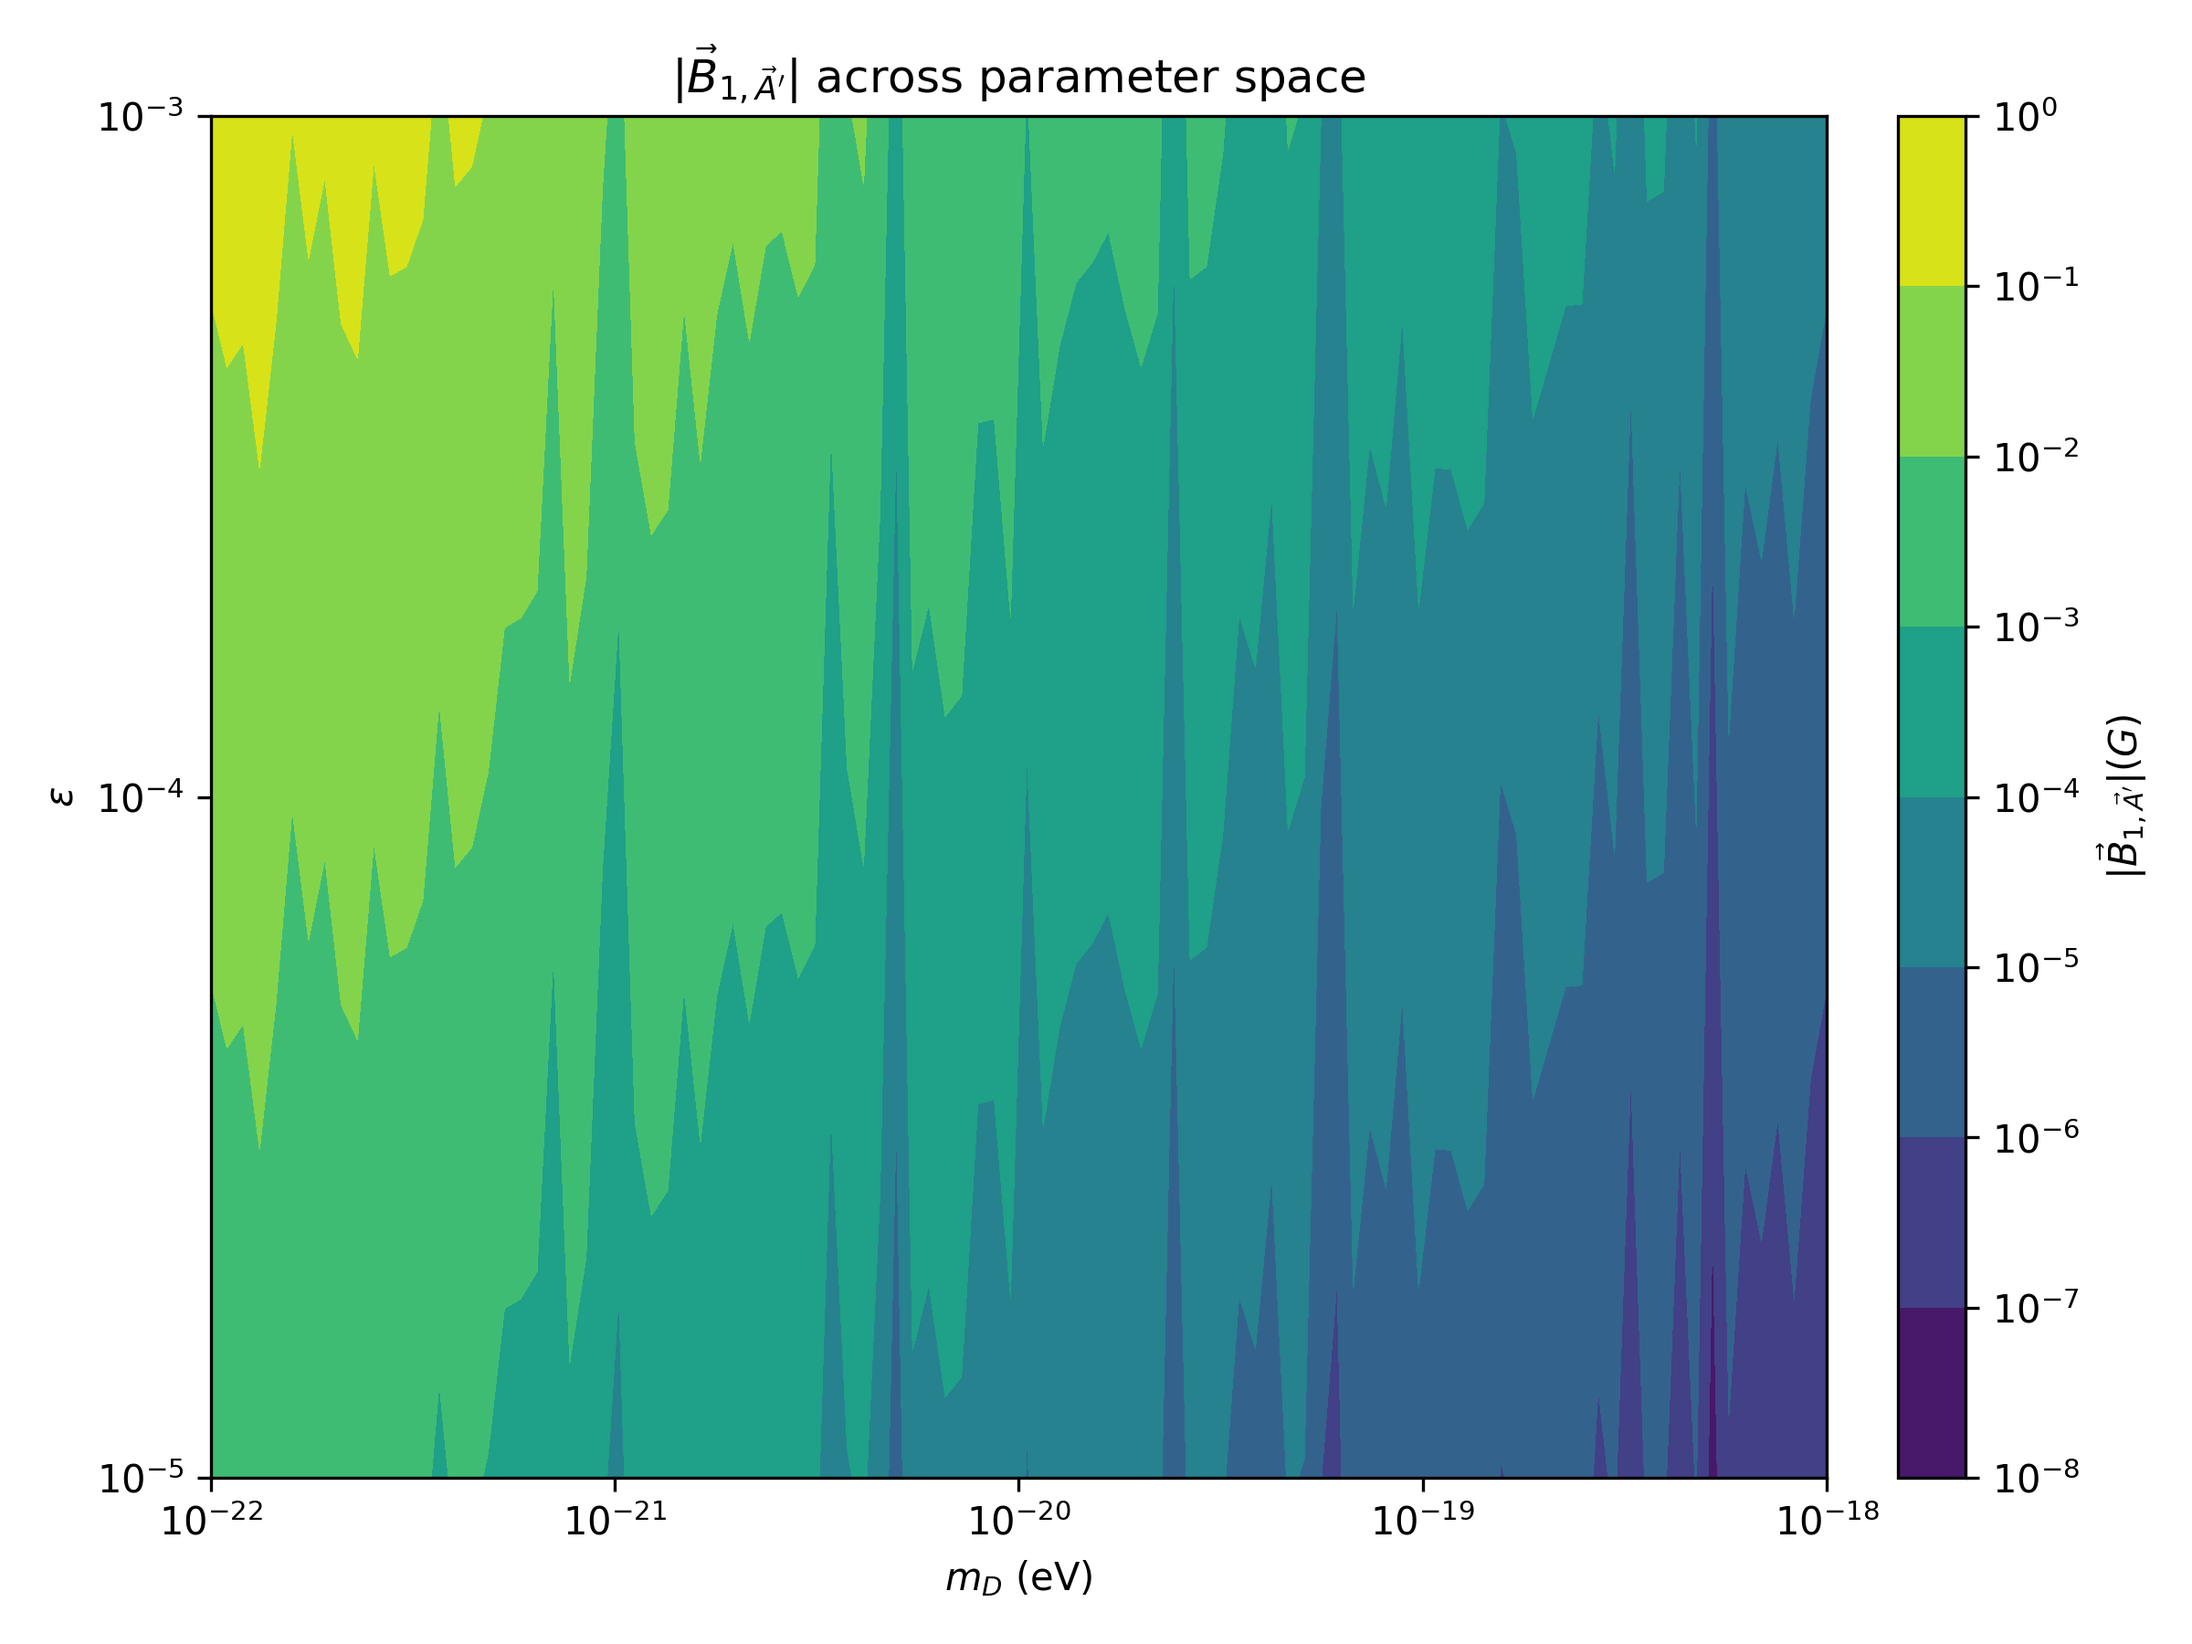
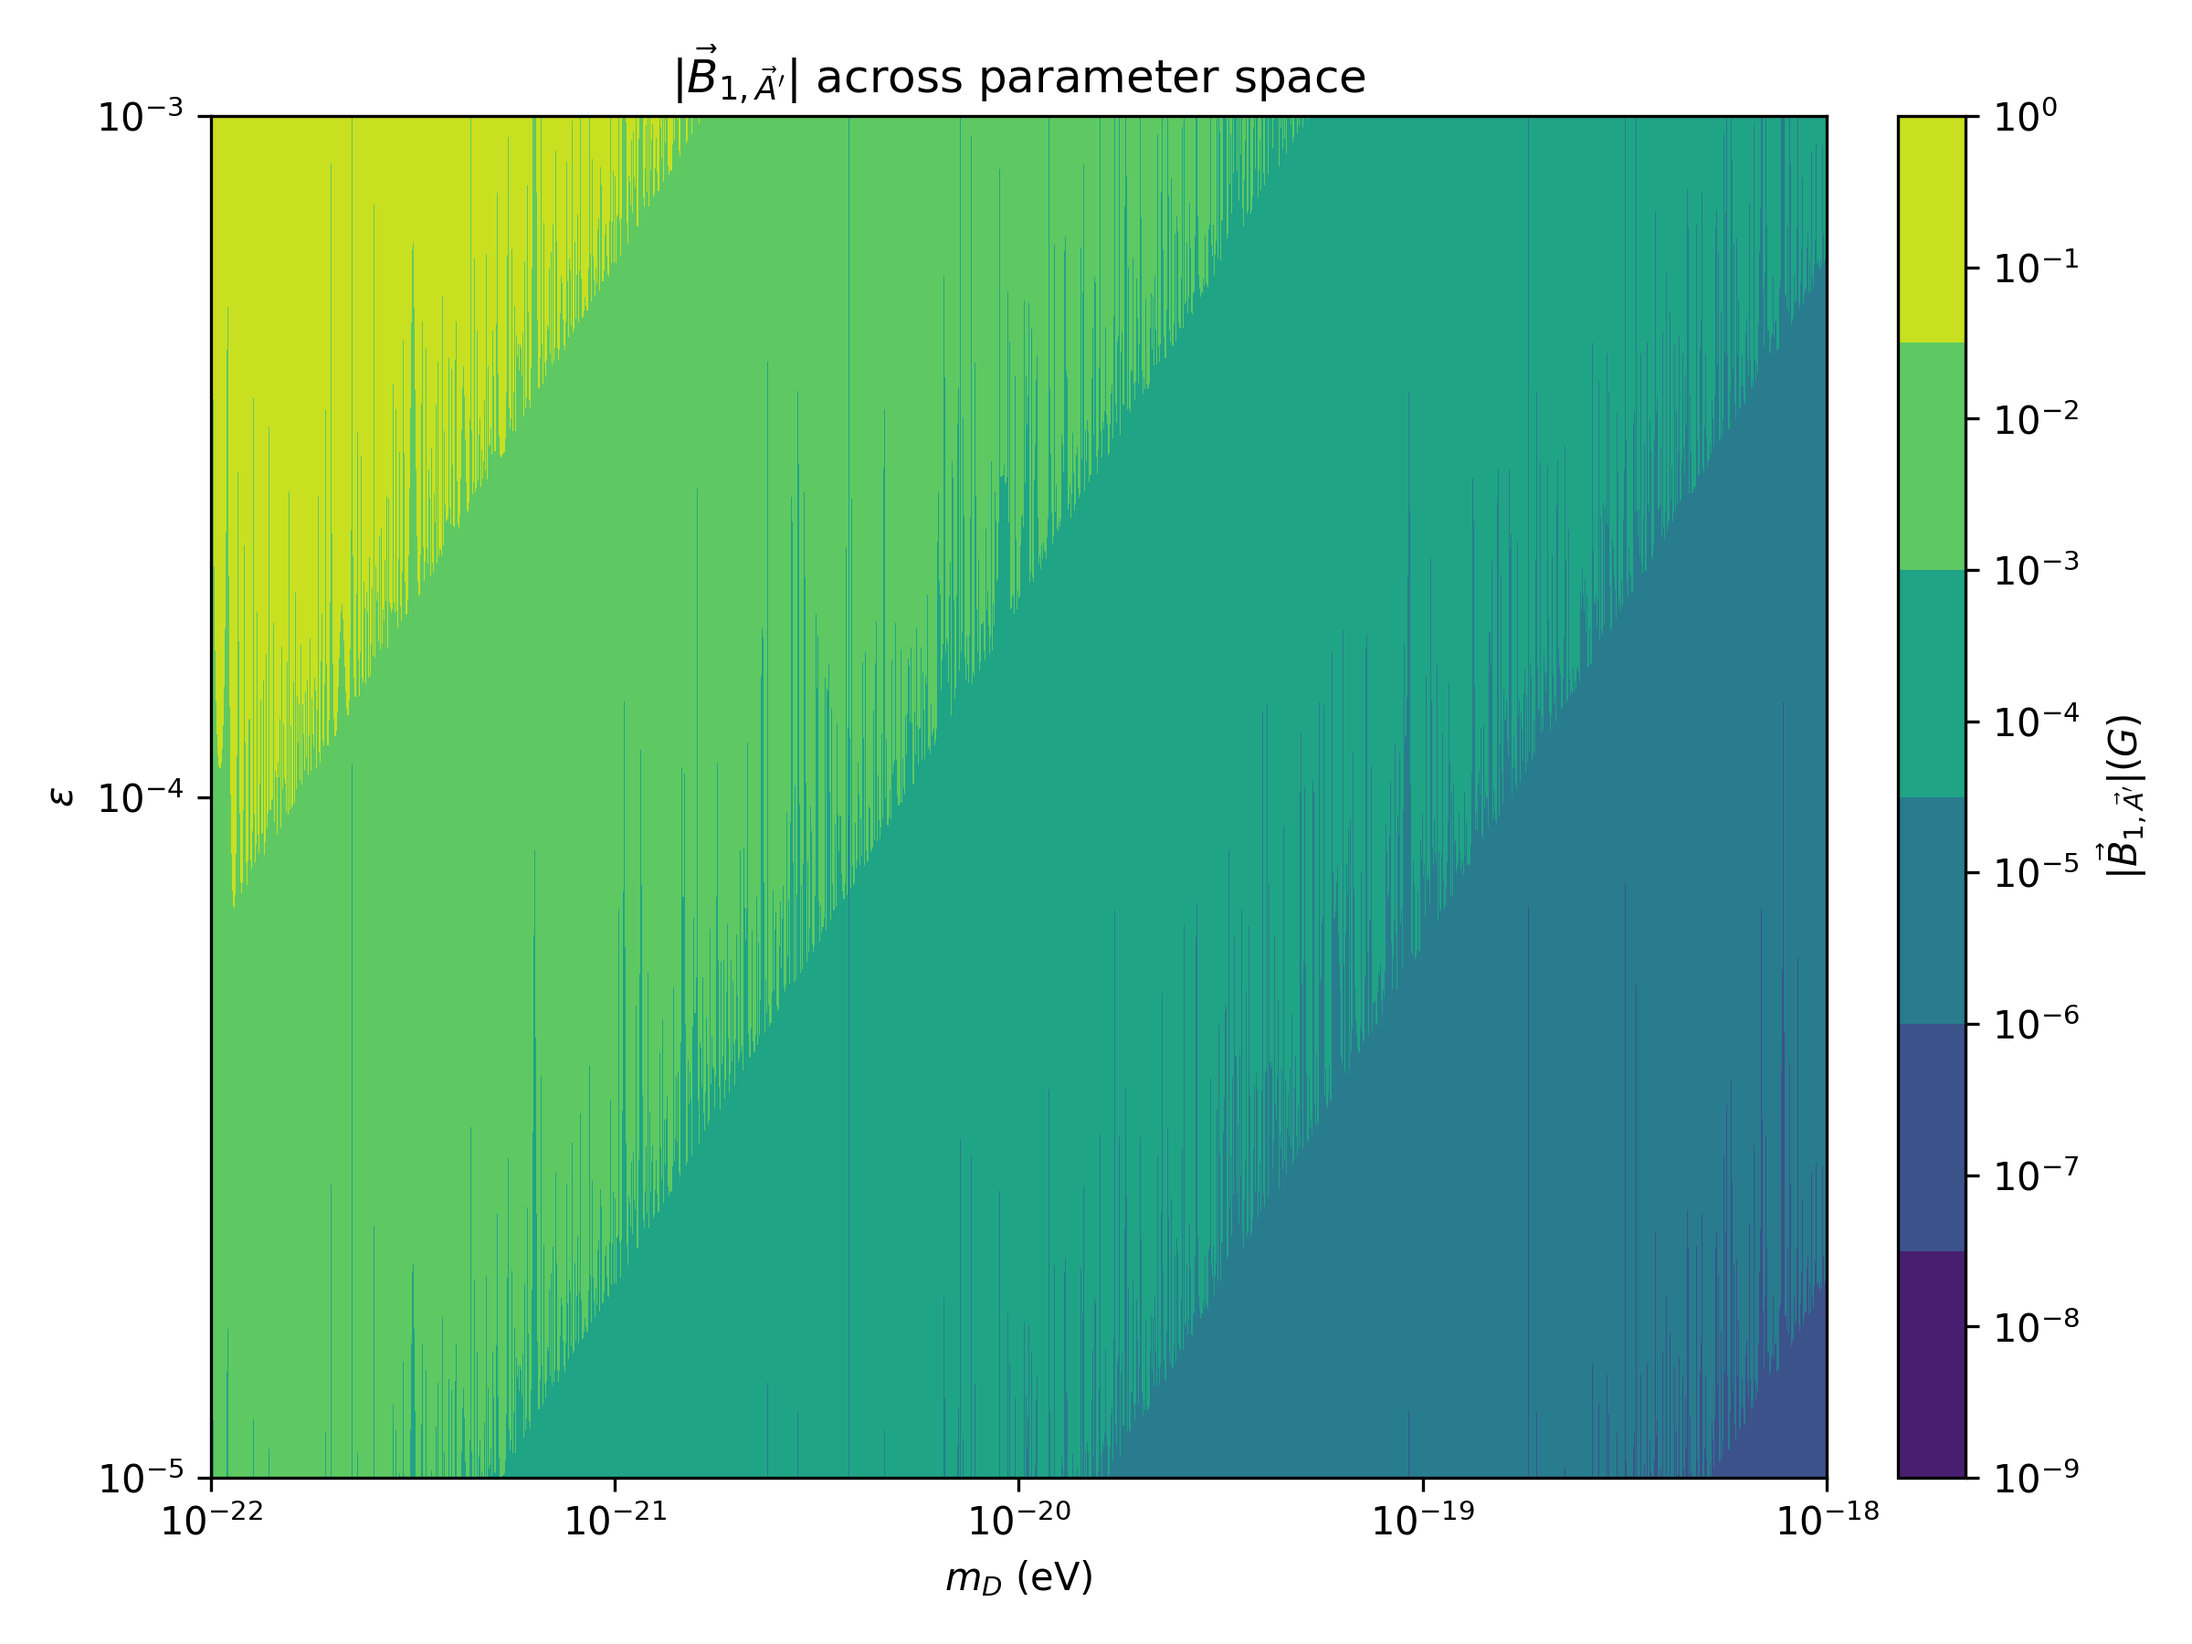
In progress

diff --git a/zeeman.py b/zeeman.py
@@ -60,6 +60,9 @@ r_c = r_c_pc * pc_to_m * m_to_eVminus1
 # Scaling constants of Tom's profile (arXiv: 1406.6586v1)
 a = (0.091 / r_c_pc**2) * (pc_to_m * m_to_eVminus1)**(-2) # Scaling constant of axion (eV^2)
 
+# Chemical potential of dark photon
+mu = 0
+
 # Convert the string to lowercase and remove all spaces
 def lower_rspace(string):
     """
@@ -217,7 +220,6 @@ def calculate_B1(potential_type, particle_type, t, m, f, epsilon, r_p, B_bar, re
             coeff = omega * g_ac * phi0 # Coefficient for axion
 
         elif particle_type == "dark photon":
-            mu = 0 # Chemical potential
             omega = m - mu
             B_bar_x, B_bar_y, B_bar_z = 1 / np.sqrt(2), j / np.sqrt(2), 0 # Pseudo-magnetic field representing the circular polarization vector
             coeff = epsilon * m**2 * A0 # Coefficient for dark photon
@@ -294,6 +296,7 @@ def calculate_E_Z(g_j, B, m_j):
     """
 
     E_Z = mu_B * g_j * B * m_j
+
     return E_Z
 
 # Calculate the hyperfine energy
@@ -675,21 +678,23 @@ def main():
     if particle_type == "axion":
         m, omega = m_a, m_a
     elif particle_type == "dark photon":
-        m, omega = m_D, m_D
+        m, omega = m_D, m_D - mu
 
-    # Parameter space
-    m_as = np.logspace(-22, -18, 100)
-    m_Ds = np.logspace(-22, -18, 100)
-    fs = np.logspace(23, 27, 100)
-    epsilons = np.logspace(-5, -3, 100)
-    m_as, fs = np.meshgrid(m_as, fs)
-    m_Ds, epsilons = np.meshgrid(m_Ds, epsilons)
-    B1params_a = calculate_B1("flat", "axion", 0, m_as, fs, epsilon, 8000 * pc_to_m * m_to_eVminus1, B_bar, real=False)
-    B1params_d = calculate_B1("flat", "dark photon", 0, m_Ds, f, epsilons, 8000 * pc_to_m * m_to_eVminus1, B_bar, real=False)
+    params = False
+    if params:
+        # Parameter space
+        m_as = np.logspace(-22, -18, 2000)
+        m_Ds = np.logspace(-22, -18, 2000)
+        fs = np.logspace(23, 27, 2000)
+        epsilons = np.logspace(-5, -3, 2000)
+        m_as, fs = np.meshgrid(m_as, fs)
+        m_Ds, epsilons = np.meshgrid(m_Ds, epsilons)
+        B1params_a = calculate_B1("flat", "axion", 0, m_as, fs, epsilon, 8000 * pc_to_m * m_to_eVminus1, B_bar, real=False)
+        B1params_d = calculate_B1("flat", "dark photon", 0, m_Ds, f, epsilons, 8000 * pc_to_m * m_to_eVminus1, B_bar, real=False)
 
-    # Plot B1 versus the parameter space
-    plot2D_data(np.log10(m_as), np.log10(fs), np.log10(B1params_a / 1e-4), r"$m_a$ (eV)", r"$f_a$ (eV)", r"$|\vec{B}_{1, a}| (G)$", r"$|\vec{B}_{1, a}|$ across parameter space", "B1paramsaxion.png", xlog=True, ylog=True, zlog=True, save=True)
-    plot2D_data(np.log10(m_Ds), np.log10(epsilons), np.log10(B1params_d / 1e-4), r"$m_D$ (eV)", r"$\varepsilon$", r"$|\vec{B}_{1, \vec{A}'}| (G)$", r"$|\vec{B}_{1, \vec{A}'}|$ across parameter space", "B1paramsdarkphoton.png", xlog=True, ylog=True, zlog=True, save=True)
+        # Plot B1 versus the parameter space
+        plot2D_data(np.log10(m_as), np.log10(fs), np.log10(B1params_a / 1e-4), r"$m_a$ (eV)", r"$f_a$ (eV)", r"$|\vec{B}_{1, a}| (G)$", r"$|\vec{B}_{1, a}|$ across parameter space", "B1paramsaxion.png", xlog=True, ylog=True, zlog=True, save=True)
+        plot2D_data(np.log10(m_Ds), np.log10(epsilons), np.log10(B1params_d / 1e-4), r"$m_D$ (eV)", r"$\varepsilon$", r"$|\vec{B}_{1, \vec{A}'}| (G)$", r"$|\vec{B}_{1, \vec{A}'}|$ across parameter space", "B1paramsdarkphoton.png", xlog=True, ylog=True, zlog=True, save=True)
 
     # Calculate the period of oscillation
     period = 2 * np.pi / omega / s_to_eVminus1
@@ -735,13 +740,13 @@ def main():
     B1r_ps_d_res = np.array([calculate_B1("flat", "dark photon", 0, m_D, f, epsilon, r_p, B_bar, real=False) for r_p in r_ps_res])
 
     # Plot B1 versus r_p for axion
-    plot_data(r_ps / (1000 * pc_to_m * m_to_eVminus1), B1r_ps_a / 1e-4, "", r"$\log_{10}(r_p/\mathrm{kpc})$", r"$|\vec{B}_{1, a}|$ (G)", r"Radial profile of $|\vec{B}_{1, a}|$", f"B1vsrpflataxionm{m_a}.png", xlog=True, save=True)
+    plot_data(r_ps / (1000 * pc_to_m * m_to_eVminus1), B1r_ps_a / 1e-4, "", r"$r_p/\mathrm{kpc}$", r"$|\vec{B}_{1, a}|$ (G)", r"Radial profile of $|\vec{B}_{1, a}|$", f"B1vsrpflataxionm{m_a}.png", xlog=True, save=True)
     
     # Restrict the radial range for plotting
     plot_data(r_ps_res / (1000 * pc_to_m * m_to_eVminus1), B1r_ps_a_res / 1e-4, "", r"$r_p/\mathrm{kpc}$", r"$|\vec{B}_{1, a}|$ (G)", r"Radial profile of $|\vec{B}_{1, a}|$", f"B1vsrpflataxionm{m_a}res.png", save=True)
     
     # Plot B1 versus r_p for dark photon
-    plot_data(r_ps / (1000 * pc_to_m * m_to_eVminus1), B1r_ps_d / 1e-4, "", r"$\log_{10}(r_p/\mathrm{kpc})$", r"$|\vec{B}_{1, \vec{A}'}|$ (G)", r"Radial profile of $|\vec{B}_{1, \vec{A}'}|$", f"B1vsrpflatdarkphotonm{m_D}.png", xlog=True, save=True)
+    plot_data(r_ps / (1000 * pc_to_m * m_to_eVminus1), B1r_ps_d / 1e-4, "", r"$r_p/\mathrm{kpc}$", r"$|\vec{B}_{1, \vec{A}'}|$ (G)", r"Radial profile of $|\vec{B}_{1, \vec{A}'}|$", f"B1vsrpflatdarkphotonm{m_D}.png", xlog=True, save=True)
     
     # Restrict the radial range for plotting
     plot_data(r_ps_res / (1000 * pc_to_m * m_to_eVminus1), B1r_ps_d_res / 1e-4, "", r"$r_p/\mathrm{kpc}$", r"$|\vec{B}_{1, \vec{A}'}|$ (G)", r"Radial profile of $|\vec{B}_{1, \vec{A}'}|$", f"B1vsrpflatdarkphotonm{m_D}res.png", save=True)
